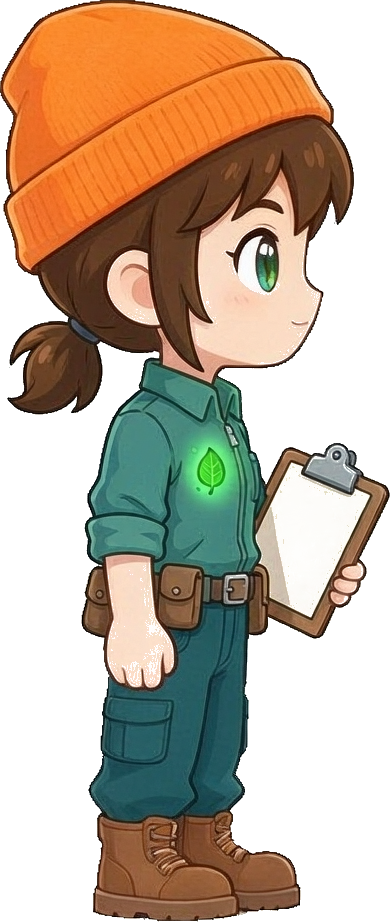
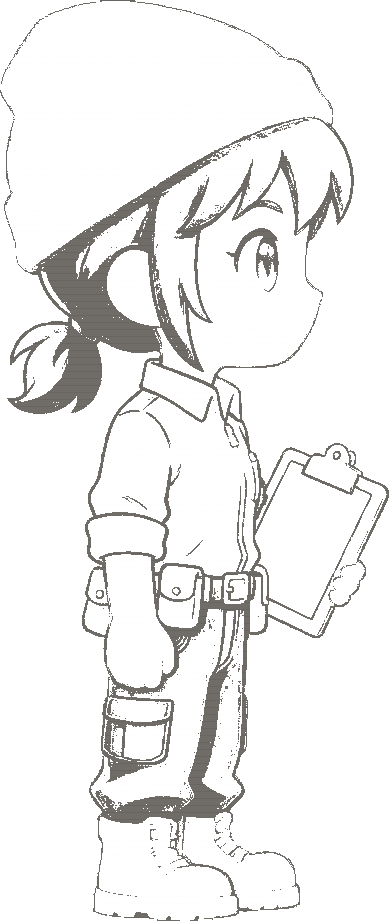
feat(art): NPC_Ava 全息投影立绘重画（指令 2506d9e1，ArtStyleGuide §7.4）
按用户指令放弃着色器方案，改为重画立绘：在现有 npc_ava.png 剪影/站姿基础上，内部重新着色为全息语言。

- 基色锁定 #7CFC98（全息绿，AvatarTint），暗部深全息绿→亮部亮绿连续插值，整体压红压蓝突绿
- 整体 alpha 0.65（0.55~0.75 合规），身后景物可透出，区分于其他角色实体不透明
- 全息质感三项齐全：边缘辉光 / 水平扫描线 / 轻微噪点（≥2 的要求已满足）
- 去掉实体读感：腮红/肤色血色压暗、木质剪贴板中和、发丝光泽消失、无纯白肉感高光
- 剪影可保留：轮廓描边与站姿复用，角色朝右、透明底、脚底基线对齐（§3.1）
- 描边：统一深棕近黑，约身高 1%（§3.2）

技术归属：只替换了源图 PNG，**GUID 与 PPU=485 不变**，`.meta` 未动。集成装配发布只需重导入，三关 NPC_Ava_* 场景引用与静态 sprite 零破坏。

alpha=0 区域 RGB 全 0（加法混合安全），尺寸 390×922 与原图一致。

管线脚本：Tools/art-pipeline/make_npc_ava_holo.py（可复现，改参数重跑）。

仅 C 车道文件，无 .cs/.unity/.prefab/.anim/.asset 改动。

diff --git a/Tools/art-pipeline/make_npc_ava_holo.py b/Tools/art-pipeline/make_npc_ava_holo.py
@@ -1,0 +1,130 @@
+#!/usr/bin/env python3
+# -*- coding: utf-8 -*-
+"""
+NPC_Ava (艾娃) 全息投影立绘重画管线
+对应指令 [2506d9e1] + ArtStyleGuide §7.4（2026-10-31 主策划裁决）
+
+设计约束（硬约束，不可擅自放宽）：
+- 艾娃是光而非肉：呈现必须是「全息投影」，不得出现皮肤血色、腮红、木质/金属实体读感
+- 基色锁定 AvatarTint #7CFC98（全息绿）
+- 整体 alpha 0.55~0.75（本方案取 0.65），身后景物可透出
+- 全息质感至少二：本方案同时做 边缘辉光 / 水平扫描线 / 轻微噪点（三项）
+- 无实体描边上的「肉感」高光：高光不产生纯白，统一压为亮绿半透明
+- 剪影可保留：复用现有 npc_ava.png 的轮廓与站姿，内部重新着色
+- 画风：高清卡通描边，非像素；角色朝右；透明底；脚底基线对齐（§3.1）
+- 描边：统一深色，约角色身高 0.8%~1.2%（§3.2）
+- 产出：替换 Assets/Art/Art/Environment/Props/npc_ava.png，GUID 与 PPU=485 不变，
+  集成装配发布只需重导入，三关 NPC_Ava_* 场景引用零破坏
+
+输入：Assets/Art/Art/Environment/Props/npc_ava.png（现有实体立绘，390×922 RGBA）
+输出：同路径覆盖写入（同名同 GUID，由 A 重导入即可）
+"""
+
+import os
+import sys
+import numpy as np
+from PIL import Image, ImageFilter
+
+ROOT = "E:/desktop/UnityXiangMu/BiShe/BiShe"
+SRC = os.path.join(ROOT, "Assets", "Art", "Art", "Environment", "Props", "npc_ava.png")
+DST = SRC  # 同名替换，GUID 与 PPU=485 不变，集成装配发布重导入即可，场景引用零破坏
+
+# 色彩（ArtStyleGuide §4.3 / §7.4）
+HOLO_GREEN = np.array([124, 252, 152], dtype=np.float64)   # #7CFC98 全息绿
+HOLO_DARK  = np.array([24, 78, 52],   dtype=np.float64)    # 深全息绿（更饱和）
+HOLO_BRIGHT= np.array([170, 255, 200], dtype=np.float64)   # 亮绿高光（不纯白）
+EDGE       = np.array([34, 30, 22],   dtype=np.float64)    # 深棕近黑描边（§3.2）
+GLOW       = np.array([124, 252, 152], dtype=np.float64)   # 边缘辉光色
+
+ALPHA = 0.65          # 整体透明度（0.55~0.75，取 0.65）
+SCANLINE_PITCH = 7    # 扫描线间隔（像素）
+SCANLINE_ALPHA = 0.25 # 扫描线 alpha（略提高，增强全息感）
+NOISE_AMPLITUDE = 12  # 噪点幅度
+GREEN_TINT = np.array([0.82, 1.0, 0.85], dtype=np.float64)  # 整体色偏：压红压蓝突绿
+
+
+def load_rgba(path):
+    im = Image.open(path).convert("RGBA")
+    return np.asarray(im, dtype=np.float64)
+
+
+def save_rgba(arr, path):
+    arr = np.clip(arr, 0, 255).astype(np.uint8)
+    Image.fromarray(arr, "RGBA").save(path)
+
+
+def gaussian_blur(a, radius):
+    """对单通道 float64 数组做高斯模糊（PIL 需要 uint8，这里做近似：用 PIL 模糊 alpha 通道再还原）"""
+    im = Image.fromarray(np.clip(a, 0, 255).astype(np.uint8), "L")
+    im = im.filter(ImageFilter.GaussianBlur(radius=radius))
+    return np.asarray(im, dtype=np.float64)
+
+
+def main():
+    rgba = load_rgba(SRC)
+    h, w, _ = rgba.shape
+    rgb = rgba[..., :3]
+    a = rgba[..., 3]
+    mask = a > 10  # 有内容的区域
+
+    # ---- 灰度（明度结构，保留体积与剪影）-----------------------------------
+    gray = 0.299 * rgb[..., 0] + 0.587 * rgb[..., 1] + 0.114 * rgb[..., 2]
+
+    # ---- 中和实体读感：把偏红（腮红/皮肤血色）与偏棕（木质剪贴板）压暗 -
+    r, g, b = rgb[..., 0], rgb[..., 1], rgb[..., 2]
+    reddish = (r > b + 30) & mask                    # 腮红/皮肤血色
+    brownish = (r > 120) & (g > 70) & (b < 100) & (r > b + 20) & mask  # 木质/金属实体
+    gray[reddish] *= 0.35        # 腮红压暗，不再显血色
+    gray[brownish] *= 0.45       # 剪贴板压暗，不再显木质质感
+
+    # ---- 按灰度映射到全息绿连续色阶（暗部深绿→亮部亮绿，整体绿基调）-----
+    out_rgb = np.zeros_like(rgb)
+    t = np.clip(gray / 255.0, 0, 1)[..., None]            # 0~1 的明度因子
+    base_color = HOLO_DARK * (1 - t) + HOLO_GREEN * t     # 连续插值，整体带绿
+    high_mask = (gray >= 200) & mask                      # 高光区再往亮绿靠
+    base_color[high_mask] = HOLO_BRIGHT
+    out_rgb[mask] = base_color[mask]
+    # 整体色偏：压红压蓝突绿，让整体呈现明显的全息绿基调（不再灰白）
+    out_rgb = out_rgb * GREEN_TINT[None, None, :]
+
+    # ---- 边缘辉光：对 alpha 做模糊，边缘处叠加亮绿发光 ----------------------
+    glow = gaussian_blur(a, radius=4)           # 0~255，边缘最亮
+    glow = np.clip(glow / 255.0, 0, 1) ** 1.1   # 边缘更宽、更亮
+    glow_rgb = GLOW[None, None, :] * (glow[..., None] * 0.7 * 255.0)
+    out_rgb = np.where(mask[..., None], out_rgb + glow_rgb, out_rgb)
+
+    # ---- 整体半透明化：alpha = 原 alpha * ALPHA（0.55~0.75）------------------
+    out_a = np.clip(a * ALPHA, 0, 255)
+
+    # ---- 扫描线：每隔 SCANLINE_PITCH 行画一条半透明亮绿细线（不留灰白）--------
+    for y in range(0, h, SCANLINE_PITCH):
+        line = HOLO_BRIGHT[None, :] * SCANLINE_ALPHA   # 亮绿而非纯白
+        out_rgb[y, :, :] = np.where(
+            mask[y, :, None],
+            np.clip(out_rgb[y, :, :] + line[None, :, :] * 255.0, 0, 255),
+            out_rgb[y, :, :],
+        )
+        out_a[y, :] = np.clip(out_a[y, :] + SCANLINE_ALPHA * 40.0, 0, 255)
+
+    # ---- 轻微噪点：在有内容区域叠加 ±NOISE_AMPLITUDE 的随机色阶 --------------
+    rng = np.random.default_rng(20261031)
+    noise = rng.integers(-NOISE_AMPLITUDE, NOISE_AMPLITUDE + 1, size=(h, w, 3)).astype(np.float64)
+    out_rgb = np.where(mask[..., None], np.clip(out_rgb + noise * 0.5, 0, 255), out_rgb)
+
+    # ---- 描边：保留原图深色边缘，统一为深棕近黑，略透明（§3.2）-------------
+    dark_edge = (r < 90) & (g < 90) & (b < 90) & (a > 150) & mask
+    out_rgb[dark_edge] = EDGE
+    out_a[dark_edge] = np.clip(out_a[dark_edge], 0, 210)  # 描边略透，不生硬
+
+    # ---- 把没有内容的区域彻底透明---------------------------------------------
+    out_rgb[~mask] = 0
+    out_a[~mask] = 0
+
+    out = np.dstack([out_rgb, out_a])
+    save_rgba(out, DST)
+    print(f"wrote {DST}  size={w}x{h}  alpha_mean={out_a[mask].mean():.1f}  "
+          f"opaque_px={int(mask.sum())}")
+
+
+if __name__ == "__main__":
+    main()
